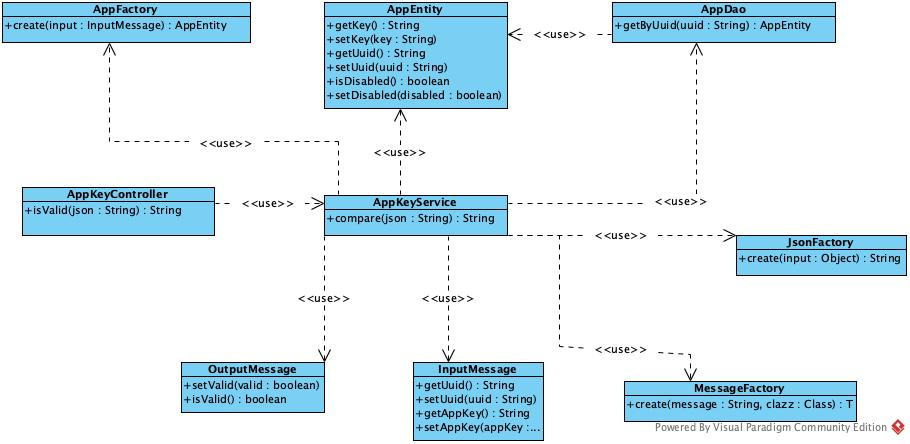
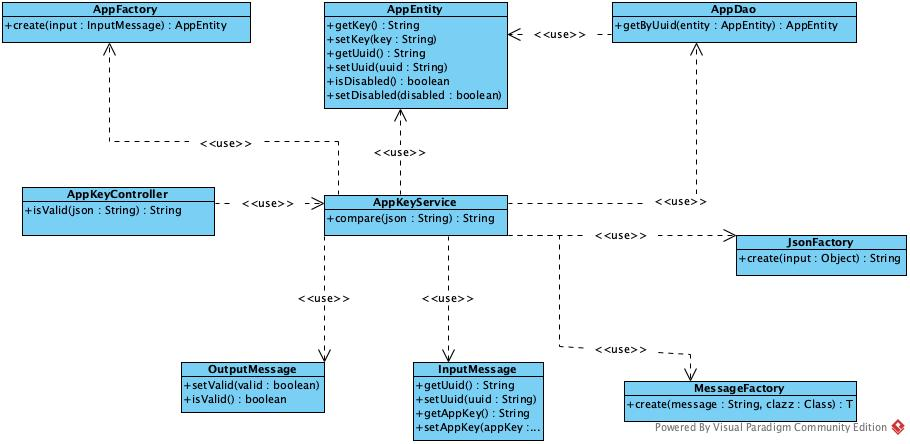
refactor dao

Changed region(s): [[0.7385, 0.0, 0.9538, 0.1171]]

diff --git a/src/main/java/eu/pstdio/app_key_validator_api/integration/dao/AppDao.java b/src/main/java/eu/pstdio/app_key_validator_api/integration/dao/AppDao.java
@@ -7,5 +7,5 @@ import eu.pstdio.app_key_validator_api.integration.entity.AppEntity;
  * @author mib
  */
 public interface AppDao {
-    AppEntity getByUuid(String uuid);
+    AppEntity getByUuid(AppEntity entity);
 }
